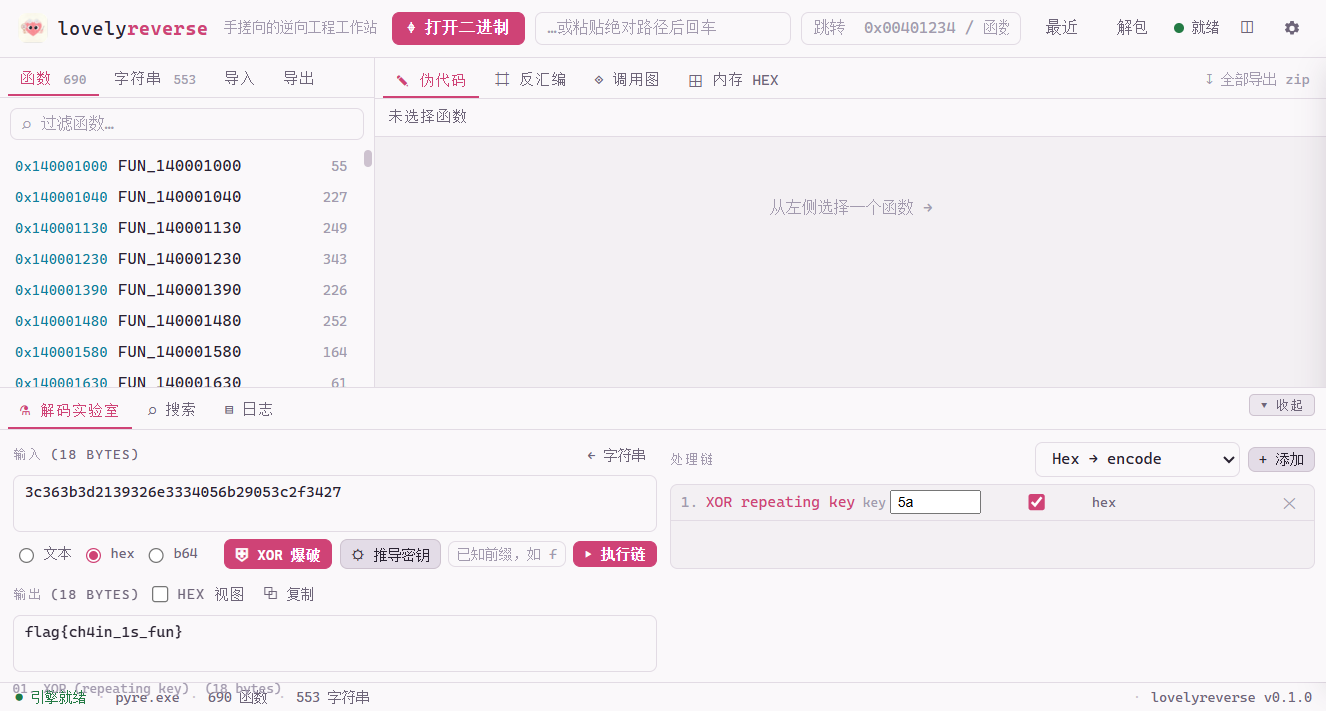
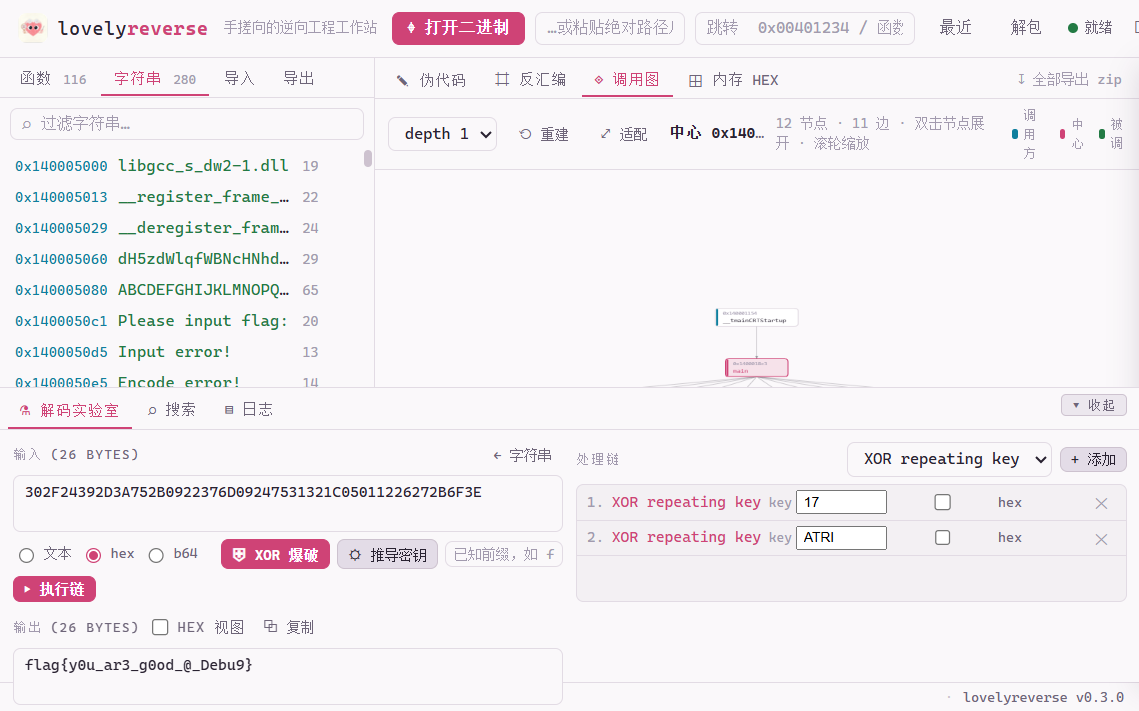
docs: 重拍五张 v0.3.0 截图（browser-use 后台直存）+ 图注更新 + 发版终检记录
hero 空态 / workstation（做题链高亮+查壳结论+_lvr 工程目录行）/ 调用图
（深度 1 层次布局）/ 解码链（XOR 0x17 → XOR ATRI → flag）/ PyInstaller
解包（60 条目+预览）；已知问题「截图待重拍」关闭；终检对照作者笔记工作
流全绿，pytest 125 passed。

diff --git a/docs/dev-notes.md b/docs/dev-notes.md
@@ -1,6 +1,6 @@
 # 开发笔记 & 续作指南（内部文档）
 
-> 状态快照 2026-11-11（v0.2.1 已发布；main 新增「做题链」联动 + 右键菜单 v2 + 工程目录 `_lvr/` 迁移，v0.3.0 候选）。给下一次继续开发的人（或下一个会话）看的。
+> 状态快照 2026-11-11（v0.2.1 已发布；main =「做题链」+ 右键菜单 v2 + `_lvr/` 工程 + 五张 v0.3.0 截图重拍，v0.3.0 候选就绪）。给下一次继续开发的人（或下一个会话）看的。
 
 ## 当前进度
 
@@ -17,7 +17,7 @@
 | `lvr doctor` + 部署自检（Ghidra/Java 探测、fail-fast） | ✅ 完成，12 个 CLI 单测 |
 | 测试 | ✅ 125 个（118 不需要 Ghidra + 7 个引擎集成），全量 72.85s |
 | CI workflow | ✅ 写好 |
-| README | ✅ 完成（含截图；**截图角标仍是 v0.1.0，待重拍**） |
+| README | ✅ 完成（五张截图已用 v0.3.0 界面重拍，browser-use 后台直存 `docs/screenshots/`） |
 
 ## v0.2.0 变更摘要
 
@@ -59,9 +59,10 @@
 
 1. **常量扫描弱签名**：4 字节签名（如 `AES Rcon[1..4] (BE)`、`CRC-32 poly (LE)`）在任意样本上可能巧合命中（crackme_easy、flower、NotNormalExe 均有此类误报）。constants.py 目前没有最短长度过滤。
    - **续作方向**：length < 8 的命中标 `weak: true`，前端弱化显示；或要求命中处上下文有附加结构（如 Rcon 后跟 S-box）。
-2. **截图角标待重拍**：README 五张截图仍是 v0.1.0 界面（右下角版本角标）。浏览器面板可用时重拍（hero 空态+收起 drawer / workstation 反编译+做题链 / 调用图 / 解码链 / 解包）。
-3. **IAB（ZCode 内置浏览器）的 Playwright `press("Enter")` 不触发页面 keydown**：合成 `KeyboardEvent` 正常。真实浏览器不受影响（synthetic 与 trusted 事件都会触发 handler）。自动化测试该用 `dispatchEvent`。
-4. **pyghidra 启动间歇失败（~1/3 概率）**：`_GhidraBundleFinder.find_spec` 递归爆栈（launcher.py:116 无条件 `from ghidra.framework import Application`）。两个诱因：`%TEMP%` 下残留空 `ghidra/` 目录会遮蔽 `import ghidra`（已删）；脚本从 %TEMP% 直接跑也易触发。**从仓库 cwd 用 `python -m lovelyreverse serve` 或 `python -c "exec(...)"` 启动可靠**。另：jpype 的 atexit 钩子是 `_core._JTerminate` 而非 `shutdownJVM`，两者都要 unregister 才不挂死退出（manager.shutdown 已修）。
+2. **IAB（ZCode 内置浏览器）的 Playwright `press("Enter")` 不触发页面 keydown**：合成 `KeyboardEvent` 正常。真实浏览器不受影响（synthetic 与 trusted 事件都会触发 handler）。自动化测试该用 `dispatchEvent`。
+3. **pyghidra 启动间歇失败（~1/3 概率）**：`_GhidraBundleFinder.find_spec` 递归爆栈（launcher.py:116 无条件 `from ghidra.framework import Application`）。两个诱因：`%TEMP%` 下残留空 `ghidra/` 目录会遮蔽 `import ghidra`（已删）；脚本从 %TEMP% 直接跑也易触发。**从仓库 cwd 用 `python -m lovelyreverse serve` 或 `python -c "exec(...)"` 启动可靠**。另：jpype 的 atexit 钩子是 `_core._JTerminate` 而非 `shutdownJVM`，两者都要 unregister 才不挂死退出（manager.shutdown 已修）。
+
+（原「截图角标待重拍」已解决：2026-11-11 用 browser-use 后台直存重拍五张 v0.3.0 截图，顺带修掉两个 drawer 布局 bug，见踩坑 #12。）
 
 ## 踩坑记录（v0.2.0 新增）
 
@@ -78,6 +79,7 @@
 9. **导入 thunk 地址别用 external symbol**：external symbol 的地址在独立地址空间（offset 0x29 之类），xref 查不到任何东西。真正的「谁调用了 strcmp」要找 **thunk function**：`FunctionManager.getFunctions(True)` 里 `f.isThunk()` 的那批——函数名即导入名，入口在镜像内，调用方 CALL 的就是它。
 10. **`tri.max_entropy` 曾是幽灵字段**：前端读它但后端 triage() 从没提供过 → 熵分支永远不触发。前后端字段约定要有测试钉住。
 11. **Ghidra 项目路径元素不许以点开头**：`GhidraProject.createProject(dir, ".lvr", …)` 直接抛 `InvalidProjectNameException: Path element starting with '.' is not permitted`。目录名用 `_lvr`。另外 Git Bash 会把中文路径的 env 变量/参数搞乱码（sample 路径带中文时别用 bash 传），用 Python 的 glob 自己找文件。
+12. **drawer 状态类的两个隐藏坑（重拍截图时暴露）**：① `--drawer-h` 从未被任何规则/JS 赋值，grid 高度公式 `calc(100vh - 46px - 24px - var(--drawer-h, 236px))` 永远按 236 扣——`#drawer.closed` 用 `!important` 缩到 32px 后，状态栏下方留 ~204px 死白。修：`body:has(#drawer.closed) { --drawer-h: 32px }`。② HTML 初始 `class="open"`，toggle 只加减 `closed`，两个类并存 → `body:has(#drawer.open) #hero{display:none}` 永远命中，**收起抽屉后空态 hero 回不来**。修：toggle 里让 open/closed 互斥（sendToDecoder 展开时同步补回 open）。教训：同一个状态用两个类表达必然漂移，状态类要么互斥维护、要么只留一个。
 
 ## 调用图实现（v0.1.0 重写，机制未变）
 
@@ -164,3 +166,10 @@
 1. 10 类右键场景全数实测：xref 行（跳转/复制地址，点「跳转」正确落到 0x140008294 反汇编）、常量行（查引用/反汇编/复制地址）、汇编行（有目标 → 跟随跳转/查引用/复制，无目标 → 查引用/复制）、搜索结果行（反汇编/查引用/复制地址，"50 55" 3 命中）+ 前一轮已验的反编译符号/选中文本/函数/字符串/导入/导出 ✅
 2. challenge1 打开 → `_lvr/challenge1.gpr|.rep|.lock` 出现在样本同级目录（原 `.lvr` 因 Ghidra 拒点开头路径改名）；`/api/program` 返回 `project_dir`，inspector 显示工程目录行 ✅
 3. `node --check` + `ast.parse` 全过；改动后全量 pytest 118 passed / 7 skipped ✅
+
+**发版终检（2026-11-11，v0.3.0 候选定稿）**：
+
+1. API 冒烟对照作者笔记工作流：锚点字符串 → xref（DATA+PARAM 双引用，带函数入口）→ decompile 行映射（gap 落「下一行」规则正中 `printf("Please input flag: ");`）；fgets thunk → 调用者 main；常量/熵字段齐全 ✅
+2. 五张 README 截图用 v0.3.0 界面重拍（browser-use 后台直存 docs/screenshots/）：hero 空态 / workstation（做题链高亮 + 查壳结论 + `_lvr` 工程目录行）/ 调用图（深度 1 层次布局）/ 解码链（XOR 0x17 → XOR "ATRI" → flag）/ PyInstaller 解包（60 条目 + manifest 预览）✅
+3. 过程中抓到并修掉两个 drawer 布局 bug（踩坑 #12：收起后死白 + hero 永不回）✅
+4. 全量 pytest 125 passed；`node --check` 过 ✅

diff --git a/README.md b/README.md
@@ -8,7 +8,7 @@
 <p align="center">
   <img src="docs/screenshots/workstation.png" width="96%" alt="lovelyreverse workstation — decompile view">
   <br/>
-  <em>Decompile view — clickable identifiers, syntax highlighting, live entropy bars</em>
+  <em>Workstation — string anchor → xref → the exact decompile line highlighted; packer verdict & entropy bars in the inspector</em>
 </p>
 
 <p align="center">
@@ -58,7 +58,7 @@
 <p align="center">
   <img src="docs/screenshots/decoder.png" width="96%" alt="lovelyreverse decoder lab">
   <br/>
-  <em>Decoder lab — chained ops: hex ciphertext XOR 0x5A → flag, in the default light theme</em>
+  <em>Decoder lab — chained ops: hex ciphertext → XOR 0x17 → XOR "ATRI" → flag, in the default light theme</em>
 </p>
 
 ### 工作站体验
